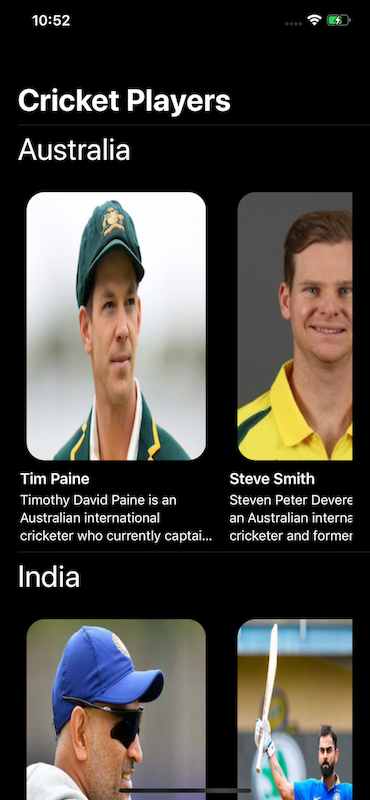
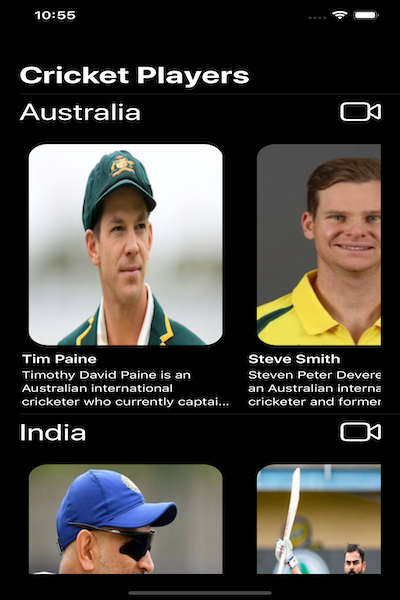
updated the code

diff --git a/Dashboard_SwiftUI/Dashboard_SwiftUI/PlayerRow.swift b/Dashboard_SwiftUI/Dashboard_SwiftUI/PlayerRow.swift
@@ -14,8 +14,19 @@ struct PlayerRow: View {
     
     var body: some View {
         VStack(alignment: .leading) {
-            Text(country)
+            HStack {
+               Text(country)
                 .font(.largeTitle)
+                
+                Spacer()
+                
+                Button(action: {
+                    print("video button clicked for \(self.country)")
+                }) {
+                    Image(systemName: "video")
+                        .font(.largeTitle)
+                }
+            }
             
             ScrollView(.horizontal, showsIndicators: false) {
                 HStack(alignment: .top, spacing: 0.0) {

diff --git a/Dashboard_SwiftUI/Dashboard_SwiftUI/ContentView.swift b/Dashboard_SwiftUI/Dashboard_SwiftUI/ContentView.swift
@@ -29,6 +29,7 @@ struct ContentView: View {
                 return PlayerRow(country: key, players: persons!)
             }
             .navigationBarTitle("Cricket Players")
+            .padding(.bottom, 5.0)
         }
     }
 }
